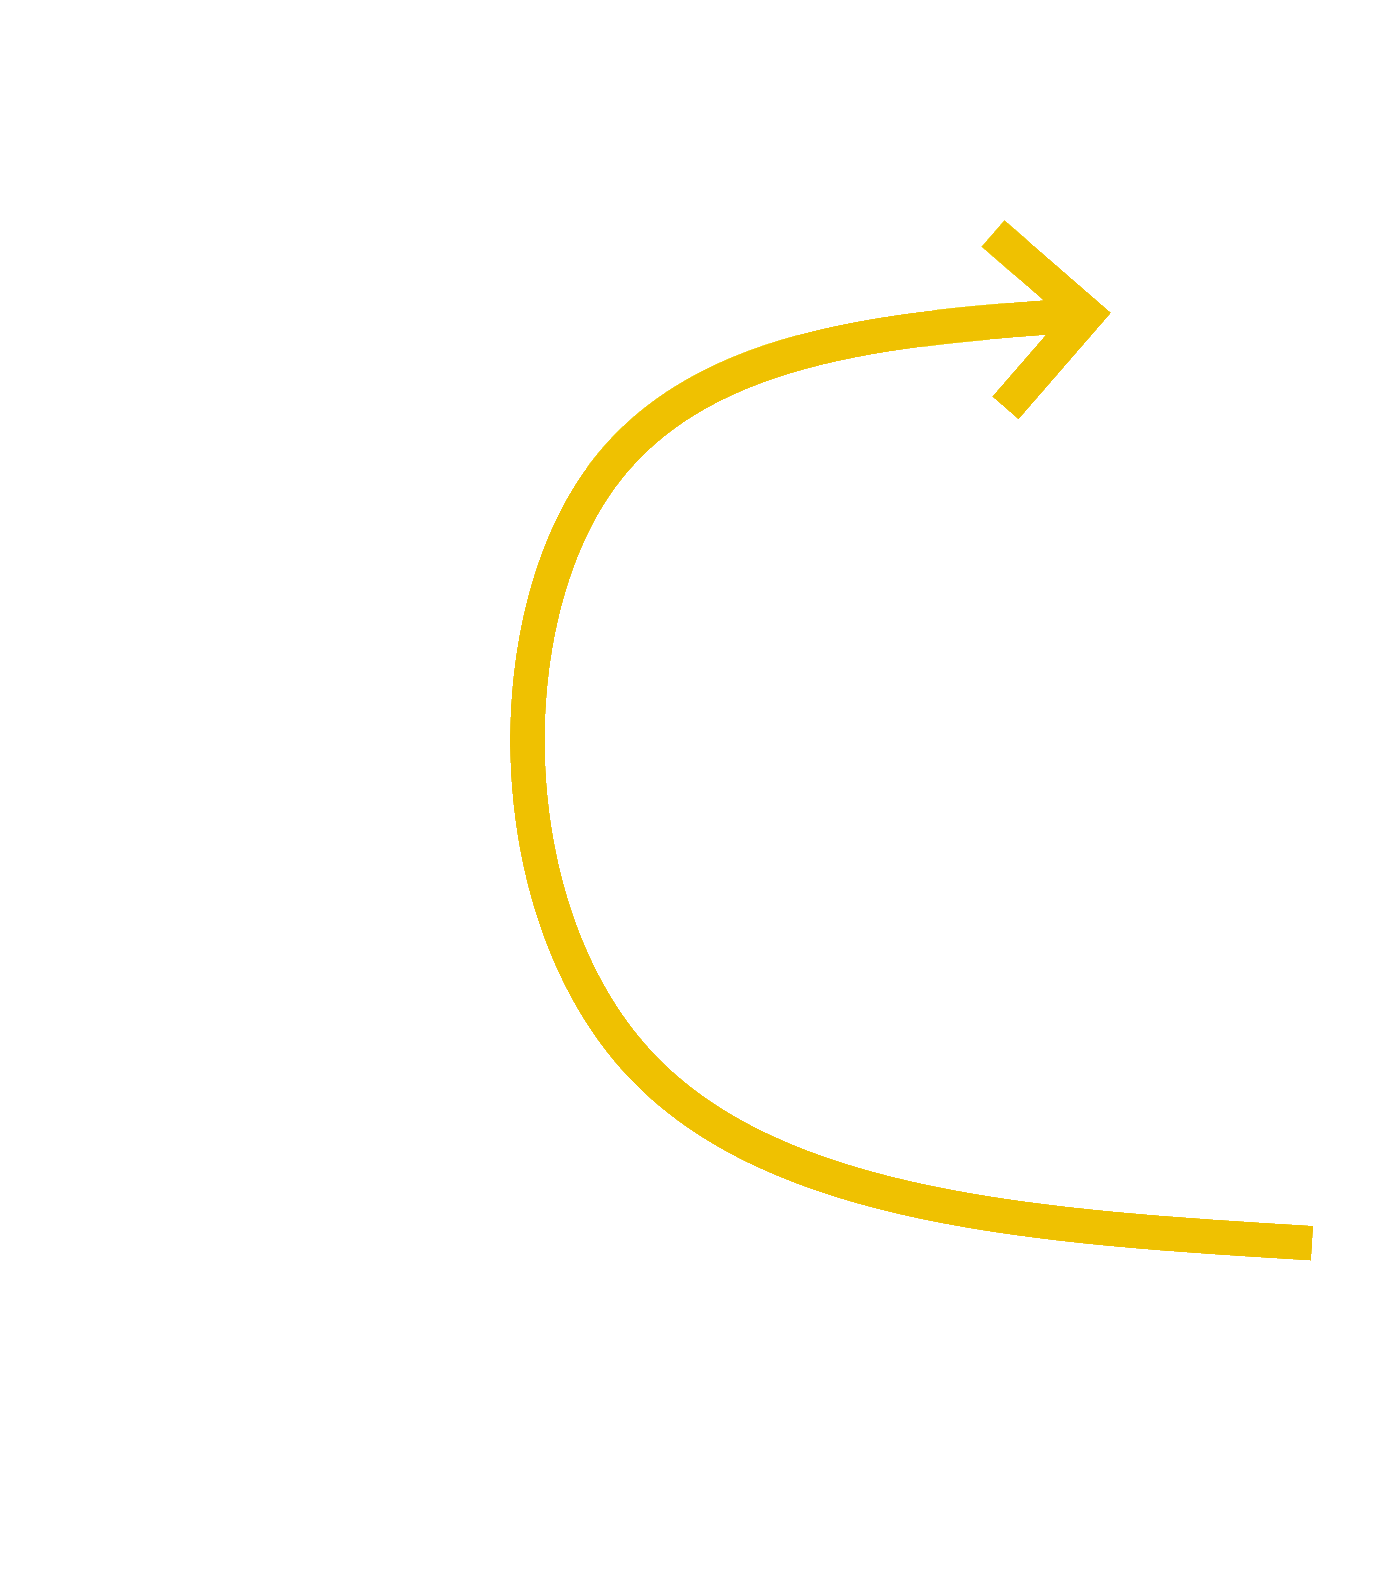
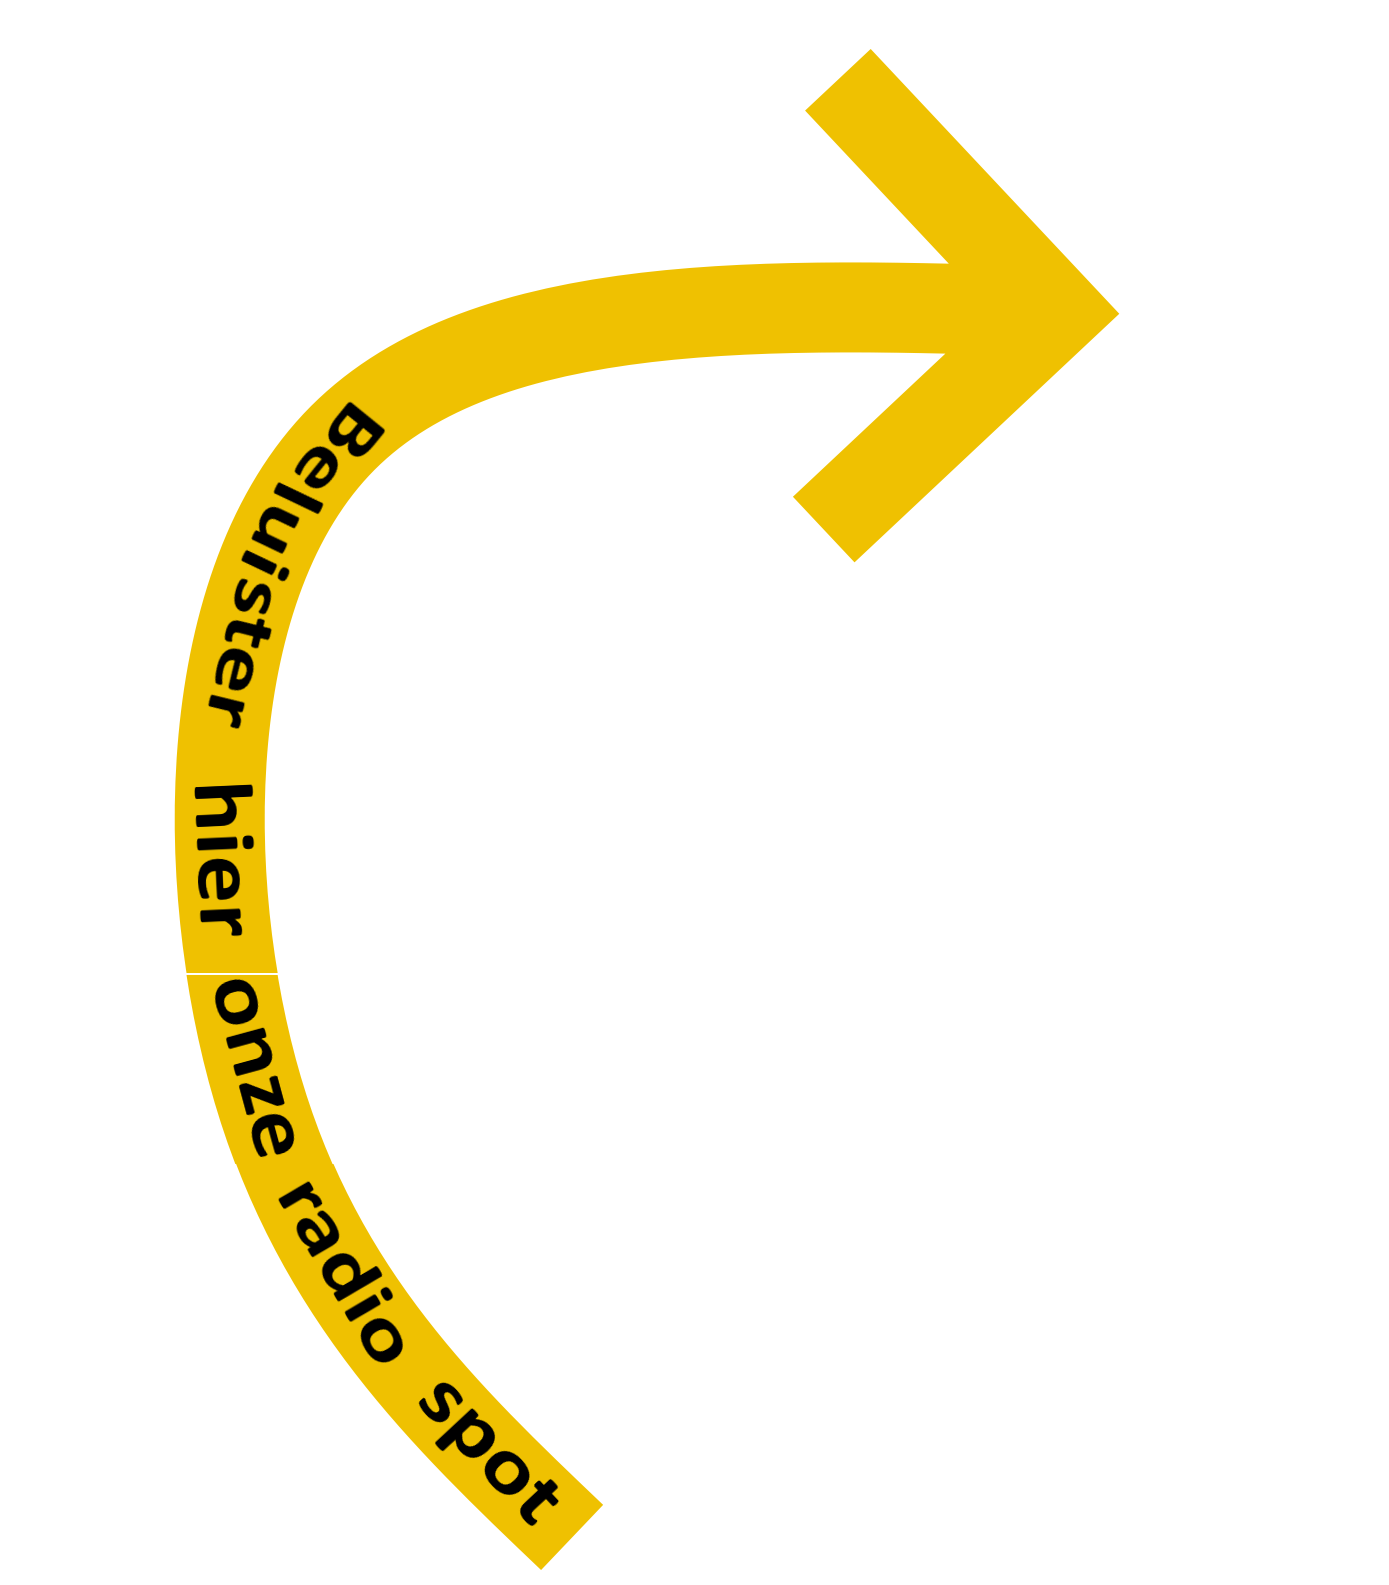
removed text, changed arrow at radio, changed photo's

Changed region(s): [[0.1238, 0.0309, 0.9597, 0.9893]]

diff --git a/components/Information-Section.tsx b/components/Information-Section.tsx
@@ -68,17 +68,17 @@ const InformationSection = () => {
                     </div>
                     {/* Left Side */}
                     {/* 5 */}
-                    <POI positionX={39.8} positionY={26.6} imageSrc={'/POI/waterstraal.jpg'}
+                    <POI positionX={39.8} positionY={26.6} imageSrc={'/POI/waterstraalsnijder.png'}
                          header={'Waterstraalsnijmachine'}
                          text={'De waterstraalsnijmachine is een onmisbare schakel in ons bedrijf. Rechtstreeks vanuit onze engineeringssoftware snijden we diverse machinedelen, in matateriaaldiktes van 0.3 tot 60mm in de meest uiteenlopende materialen. Van constructiestaal, RVS, Mangaanstaal, Titanium en zelfs Zirkonium. Alsook buijn a alle kunststoffen.'}/>
                     {/* 6 */}
-                    <POI positionX={35.4} positionY={39.5} imageSrc={'/POI/freesbank.jpeg'} header={'CNC Freesmachine'}
+                    <POI positionX={35.4} positionY={39.5} imageSrc={'/POI/freesbank.png'} header={'CNC Freesmachine'}
                          text={'is een cnc freesmachine/ bewerkingscentrum een zeer belangrijke speler. In ons bedrijf wordt deze machine zowel aan de machine alsook vanaf afstand met het grootste gemak geprogrameerd voor enklestuks werk almede ookk serieproduktie.'}/>
                     {/* 7 */}
-                    <POI positionX={38} positionY={58} imageSrc={'/POI/draaibank.jpg'} header={'Draaibank'}
+                    <POI positionX={38} positionY={58} imageSrc={'/POI/draaibank.png'} header={'Draaibank'}
                          text={'Voor elk bedrijf in de mechanische techniek is een cnc draaibank uiteraard een basisspeler.'}/>
                     {/* 8 */}
-                    <POI positionX={24.6} positionY={49} imageSrc={'/POI/plaatwerk.jpg'} header={'Plaatwerk'}
+                    <POI positionX={24.6} positionY={49} imageSrc={'/POI/plaatwerk.png'} header={'Plaatwerk'}
                          text={'In onze engineering houden we er rekening mee dat we met plaatwerk dure lasbewerkingen kunnen vervangen door gezet plaatwerk'}/>
                     {/* 9 */}
                     <POI positionX={16.9} positionY={60.2} imageSrc={'/POI/robot.png'}
@@ -89,7 +89,7 @@ const InformationSection = () => {
                          header={'Werkplaatsuitrusting'}
                          text={'Werkplaatsuitrusting, zonder dat dit voor ons specialismes zijn, maar toch onmisbare competenties.'}/>
                     {/* 11 */}
-                    <POI positionX={28.8} positionY={27.4} imageSrc={'/POI/vervoer.jpeg'} header={'Transport'}
+                    <POI positionX={28.8} positionY={27.4} imageSrc={'/POI/vervoer.png'} header={'Transport'}
                          text={'Om onze flexibiliteit te ondersteunen, maken we gebruik van eigen transport tot 6000kg.'}/>
                     {/* 12 */}
                     <POI positionX={13.1} positionY={39} imageSrc={'/POI/yingyang.png'} header={'Doel'}

diff --git a/components/Footer.tsx b/components/Footer.tsx
@@ -9,19 +9,6 @@ export default function Footer() {
           id={'footer'}
           className="w-screen h-screen snap-start snap-always bg-white text-white flex flex-col justify-end relative">
         <div className={"absolute z-0 w-screen top-0 left-0 flex justify-between items-end h-full max-h-[665px] pt-10"}>
-          <Image src={'/morph.gif'} alt={'progress of machine giff'} height={345} width={615}
-                 className={'object-contain h-full w-auto max-w-[535px]'}/>
-          <p className={'text-base text-gray-900 pt-16 px-2 text-left font-normal h-full'}>
-            <span className={'font-medium text-lg'}>Opstelling</span><br/>
-            Waar de coach tijdens de opstelling de beste spelers op de juiste plek zet,
-            zo zetten wij van Meuwissen Machinebouw de beste technieken in om de wedstrijd
-            te winnen!
-            <br/><br/>
-            <span className={'font-medium text-lg'}>Winnaars</span><br/>
-            Wellicht heeft u hierboven al ontdekt hoe Meeuwissen Machinebouw het
-            voor elkaar krijgt om een wedstijd te spelen, waar 2 winnaars uitkomen.</p>
-          <Image src={'/morph2.gif'} alt={'progress of machine giff'} height={345} width={615}
-                 className={'object-contain h-full w-auto max-w-[535px]'}/>
           <Image src={'/front-page/design-and-engineering-materials-parallax-blue-1.jpg'} alt={'tekening achtergrond'} fill={true} className={'object-cover relative -z-[1] select-none pointer-events-none'}/>
         </div>
 

diff --git a/components/Front-Header.tsx b/components/Front-Header.tsx
@@ -52,7 +52,6 @@ const FrontHeader = () => {
             <div className={'absolute top-20 right-44'}>
                 <Image src={'/front-page/radio.png'} alt={'radio'} height={195} width={195} onClick={playRadio} className={'-rotate-[10deg] hover:scale-125 hover:rotate-[15deg] hover:cursor-pointer duration-300 transition-all'}/>
                 <Image src={'/arrow.png'} alt={'arrow point towards radio'} height={200} width={200} className={'absolute top-20 -left-44'} />
-                <span className={'text-white absolute top-60 left-10 w-max text-xl'}>Beluister hier onze radio spot!</span>
             </div>
             <div className={'absolute bottom-0 right-0'}>
                 <Link href={'#drawing'}>
